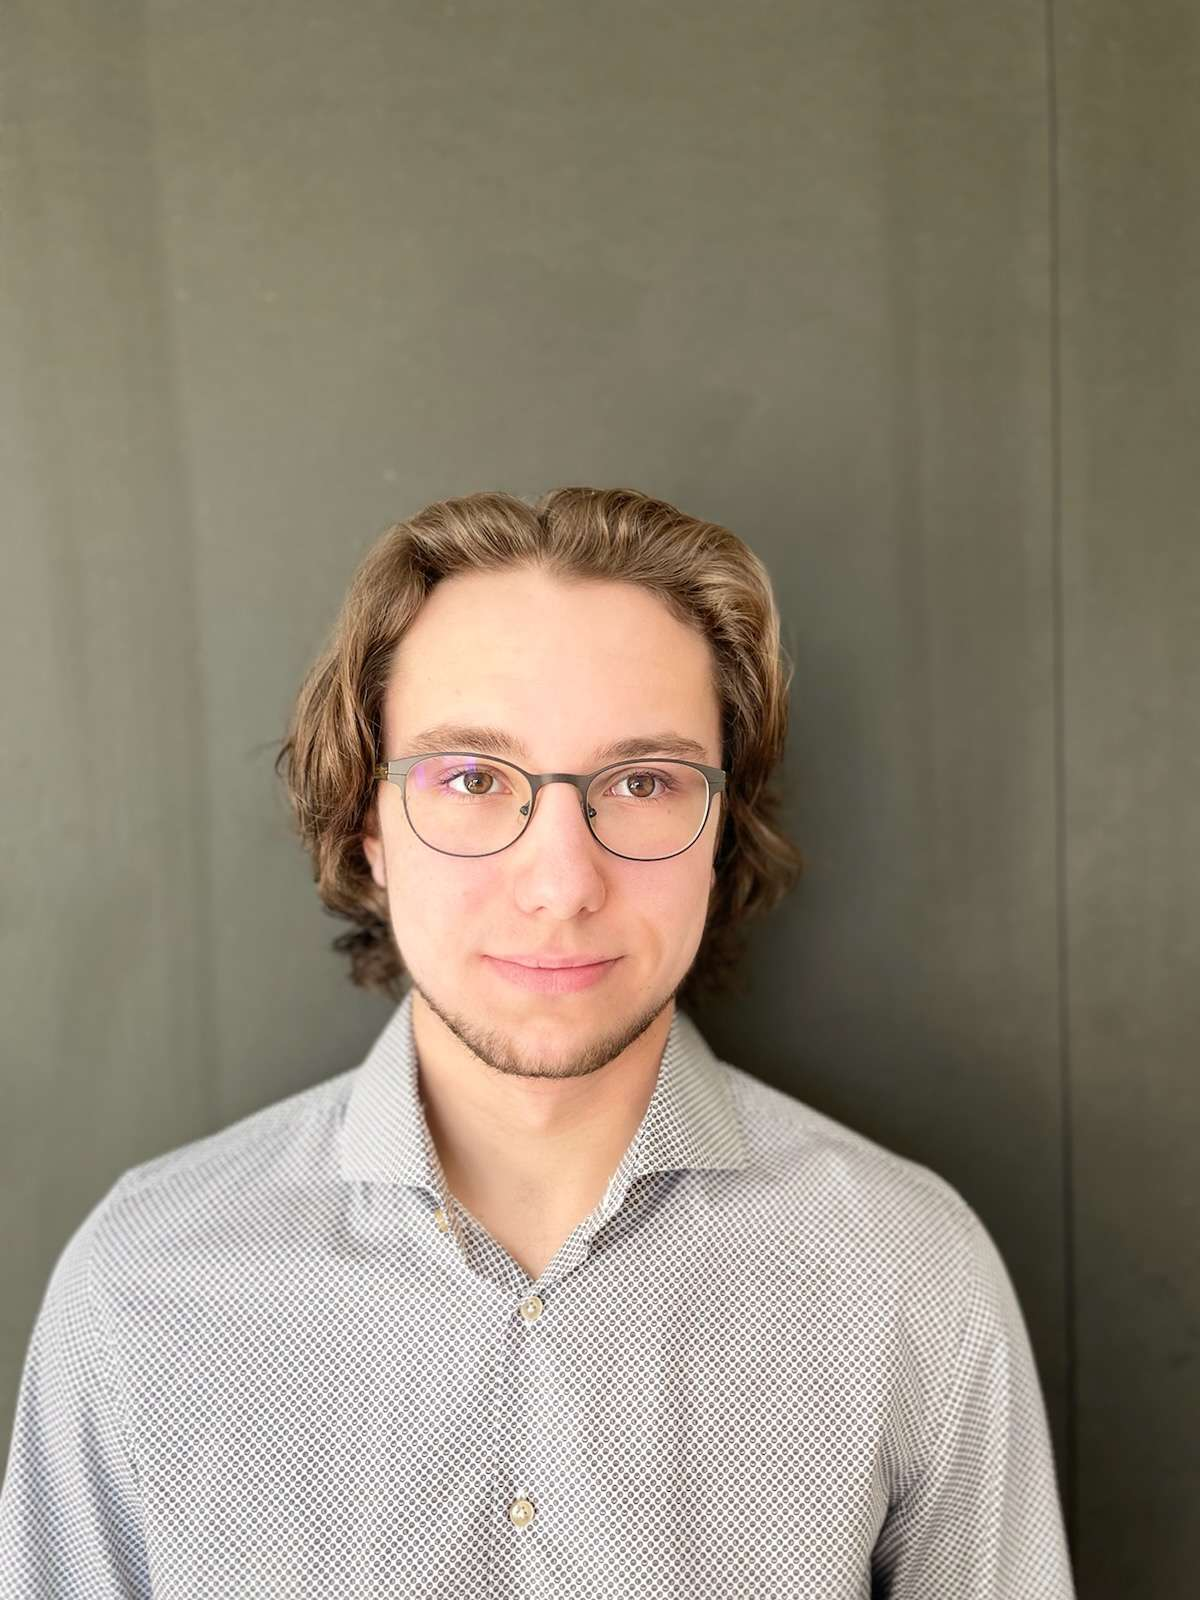
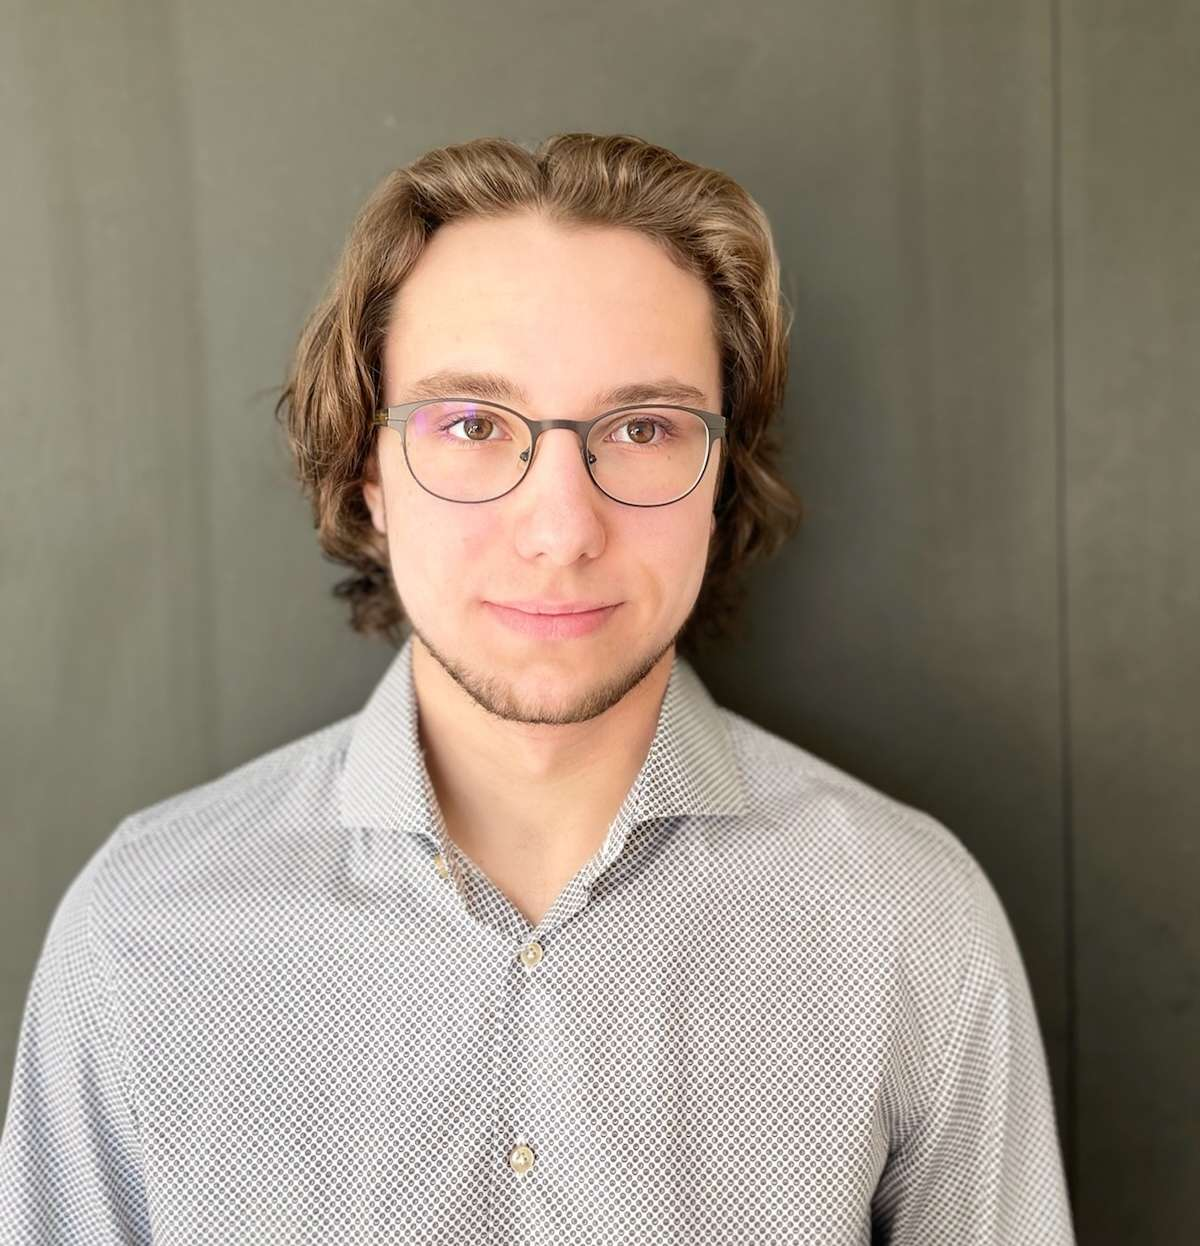
PP + internship + background

diff --git a/index.html b/index.html
@@ -5,6 +5,7 @@
     <meta name="viewport" content="width=device-width, initial-scale=1.0">
     <title>Portfolio</title>
     <link rel="stylesheet" href="styles.css" type="text/css"> 
+    <script src="https://kit.fontawesome.com/45e38e596f.js" crossorigin="anonymous"></script>
 </head>
 <body>
 
@@ -25,18 +26,56 @@
             <img src="images/PP.jpg" alt="Photo de profil">
         </aside>
         <div>
+            <p id="name">Aurèle Dunand</p>
             <h3>Bienvenue sur mon portfolio !</h3>
             <p>Je suis Aurèle Dunand, un informaticien passionné par le développement logiciel. Explorez mes projets pour découvrir mon travail, et n'hésitez pas à me contacter pour toute question.</p>
-            <a href="#projets" class="btn">Découvrir mes projets</a>
         </div>
     </section>
 
+    <div class="separator"></div>
+
     <section id="projets" class="container">
         <h2>Projets</h2>
-        <p>Le Lorem Ipsum est simplement du faux texte employé dans la composition et la mise en page avant impression. Le Lorem Ipsum est le faux texte standard de l'imprimerie depuis les années 1500, quand un imprimeur anonyme assembla ensemble des morceaux de texte pour réaliser un livre spécimen de polices de texte. Il n'a pas fait que survivre cinq siècles, mais s'est aussi adapté à la bureautique informatique, sans que son contenu n'en soit modifié. Il a été popularisé dans les années 1960 grâce à la vente de feuilles Letraset contenant des passages du Lorem Ipsum, et, plus récemment, par son inclusion dans des applications de mise en page de texte, comme Aldus PageMaker.
-            Pourquoi l'utiliser?
-        </p>
+        <div class="projet">
+            <h3>Déploiement de services sécurisés dans un réseau</h3>
+            <p>
+                Ce projet consistait à déployer une infrastructure réseau contenant divers services open-sources le tout de manière contrôlé et sécurisé.
+                En équipe de 3, nous avons déployé dans une machine virtuelle mère, les services suivant : 
+            </p>
+            <ul>
+                <li>Un serveur DNS : Bind9</li>
+                <li>Un serveur DHCP : ISC DHCPD</li>
+                <li>Un annuaire LDAP : OpenLDAP</li>
+                <li>Un pare-feu : nftables</li>
+                <li>Un système de journalisation : systemd-journald</li>
+                <li>Un système de surveillance du réseau : Zabbix</li>
+                <li>Un serveur de fichier : NFS</li>
+                <li>Un serveur web avec un intranet : Apache</li>
+            </ul>
+            <p>
+                Ainsi que de proposer des scripts automatisé contenant l'installation et la configuration de ces services.
+                L'installation de cette infrastructure nous a permis de nous projeter à la place d'une équipe d'administrateur système et réseau et de développer notre capacité de collaboration.
+                Ce projet m'a aussi permis de découvrir plusieurs service services et outils très utilisés, et de justifier leurs utilisation au sein de l'infrastructure.
+            </p>
+        </div>
+
+        
+
+        <div class="projet">
+            <h3>Développement des communications OPC UA en entreprise</h3>
+            <p>
+                Dans le cadre de mon alternance en entreprise de ma 3e année de BUT Informatique, j'ai travaillé sur les communications entre une application cliente et un automate.
+                Ceci dans le but de récuperer les données présentes sur l'automate, mais aussi d'en envoyer.
+            </p>
+            <p>
+                Ce travail dans un domaine très précis et inconnu de ma part m'a permis de développer mon auto-didactisme ainsi que ma capacité d'adaptation à un projet (un logiciel dans ce cas ci) déjà présent.
+                J'ai aussi développé ma rigeur de développement dans la mesure où mon travail se doit d'être maintenable et compréhensible 
+            </p>
+                
+        </div>
     </section>
+
+    <div class="separator"></div>
 
     <section id="contact" class="container">
         <h2>Contact</h2>

diff --git a/styles.css b/styles.css
@@ -3,15 +3,28 @@ body {
     flex-direction: column;
     justify-content: center;
     align-items: center;
-    height: 100vh; 
     margin: 0;
-    background-image: url('images/fond-papier-peint.jpg');
+    background-image: url('images//polygon-scatter-haikei.svg');
+    background-size: cover;
+    font-family:Arial, Helvetica, sans-serif;
+    font-size: larger;
+}
+h1 {
+    font-size: 4em;
+}
+header {
+    text-align: center;
 }
 header>nav {
     
     color: #fff;
     padding: 10px 0; 
 }
+
+#name {
+    font-size: 3em;
+}
+
 .container {
     width: 50vw; 
     padding: 0 20px; 
@@ -47,9 +60,21 @@ nav ul li a:hover {
 
 #accueil>aside {
     float: left;
-    margin-right: 1vw;
+    margin-right: 5vw;
 }
 #accueil>aside>img {
-    height: 200px;
+    height: 300px;
     width: auto 
+}
+
+.separator {
+    border: none; /* Supprime le style de bordure par défaut */
+    border-top: 2px solid rgb(165, 165, 165); /* Ajoute une ligne horizontale */
+    margin: 40px 0; /* Ajoute un espace entre les sections */
+    width: 30vw;
+}
+
+.projet {
+    padding-top: 2vh;
+    padding-bottom: 2vh;
 }
